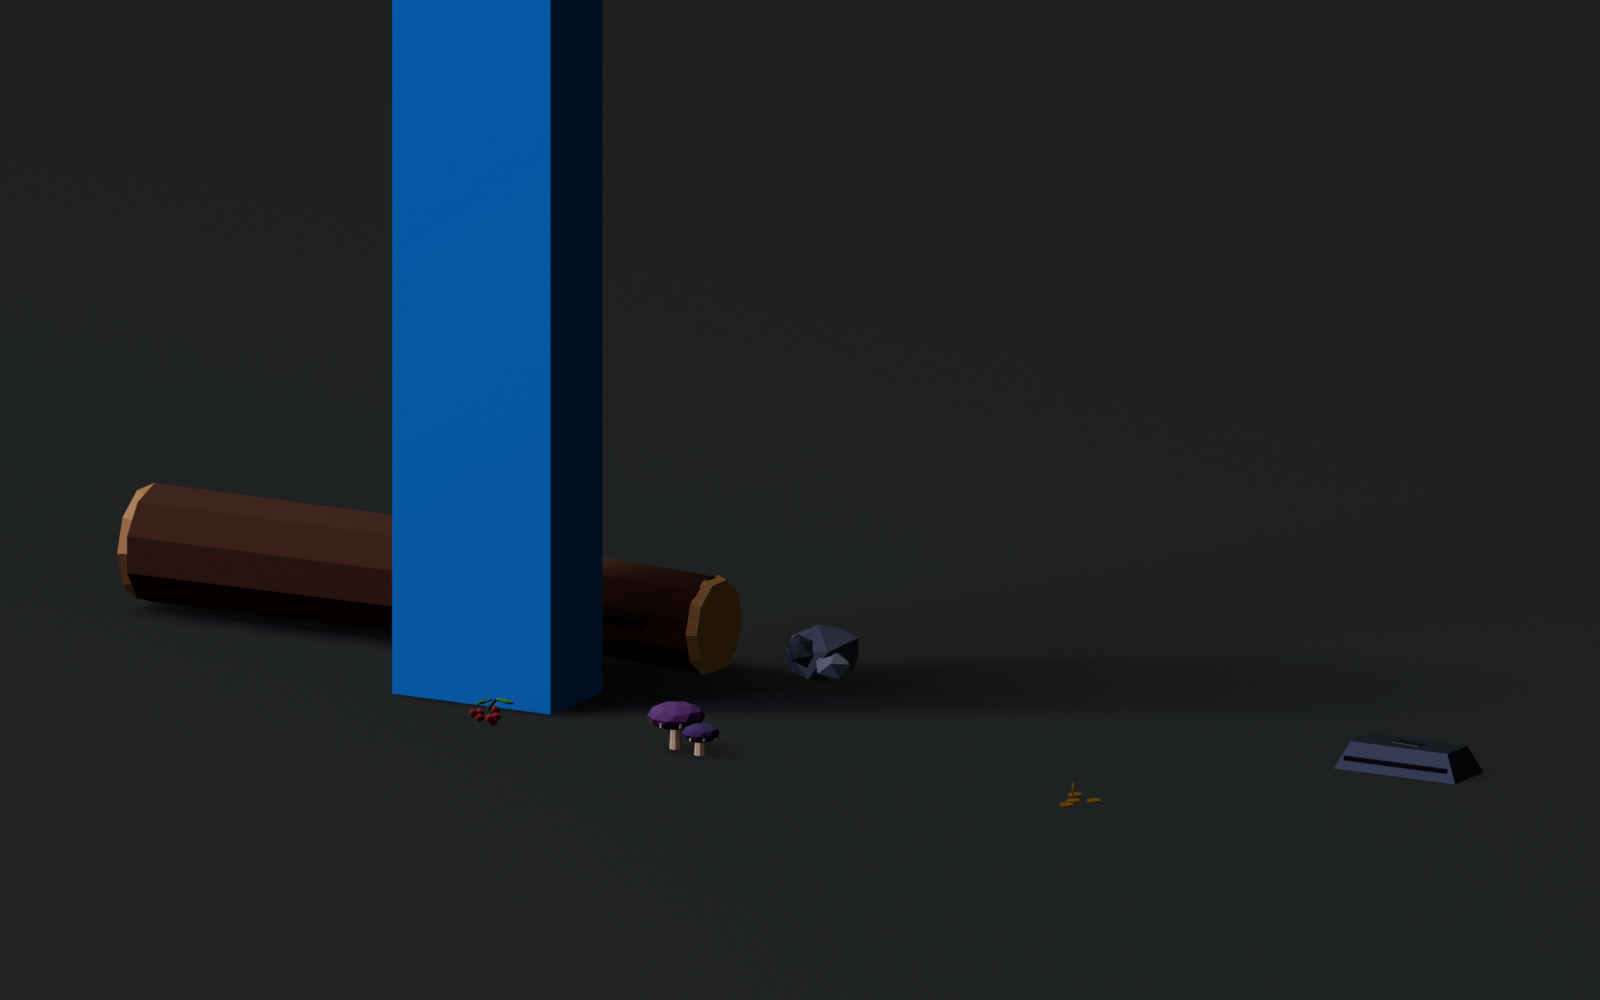
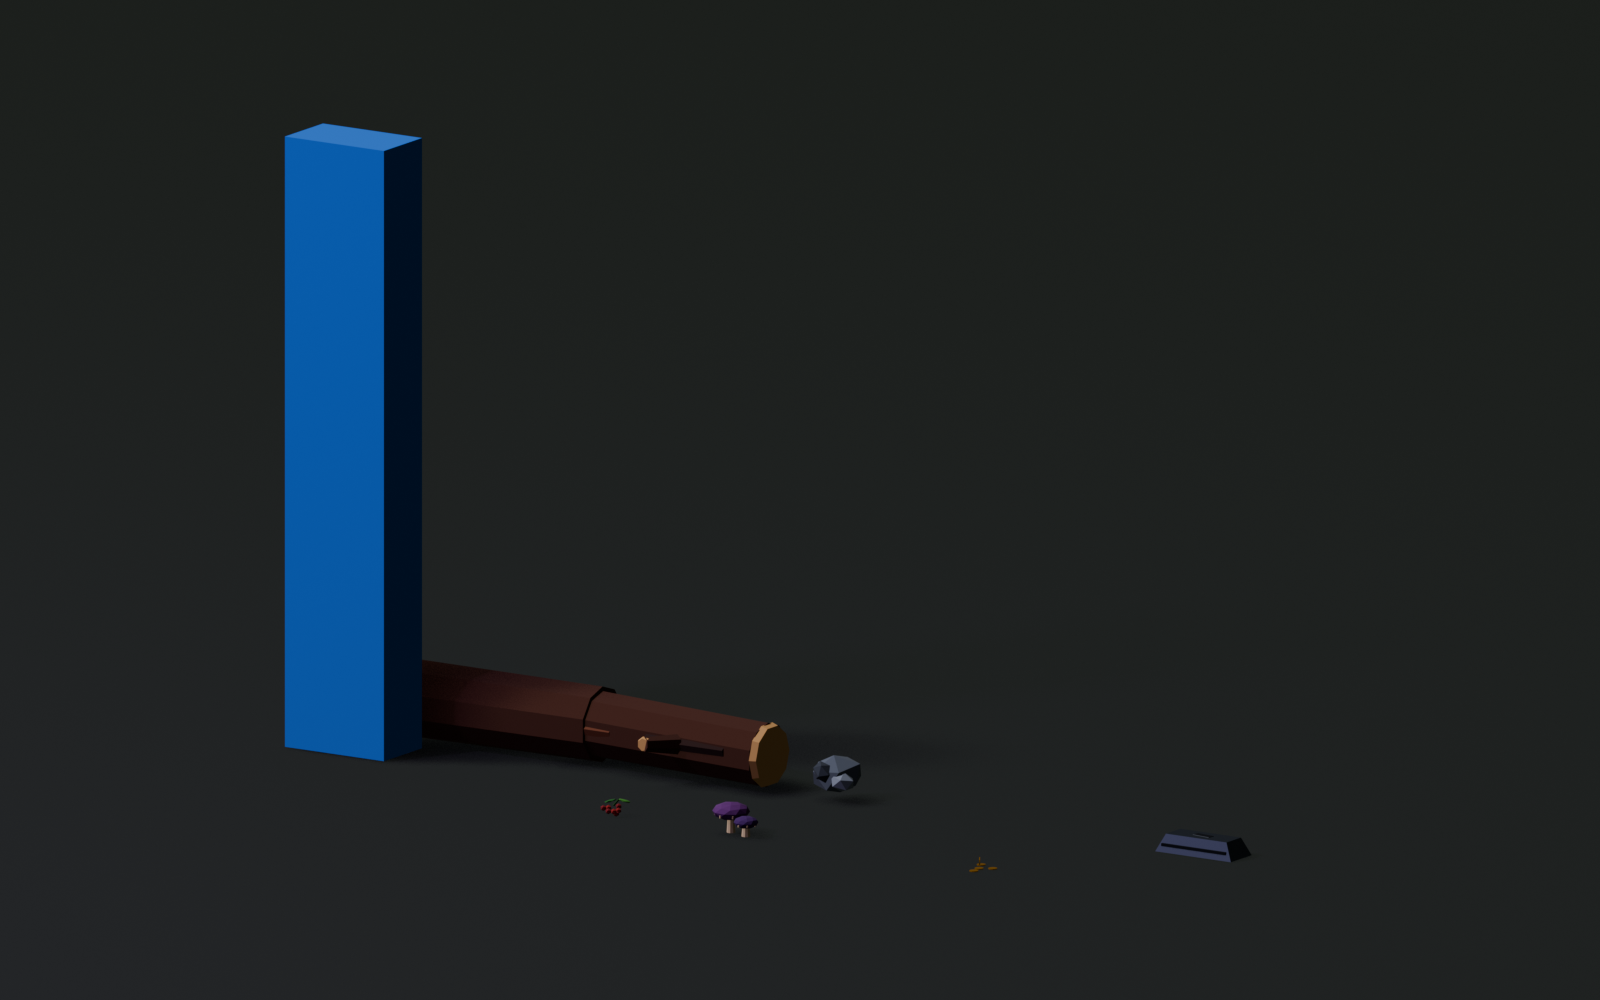
Art: scale preview frames its own 1.80 m reference (2.1j)
The shot cropped the top of the yardstick it exists to measure against, which is
how this kit passed inspection at ten times life size. Ortho vertical extent is
ortho_scale * res_y / res_x, so 4.6 at z=0.95 spans -0.49..2.39 and holds all of it.

diff --git a/tools/blender/build_pickup_kit.py b/tools/blender/build_pickup_kit.py
@@ -507,11 +507,17 @@ def main() -> None:
     for record in records:
         set_visible(record, record["name"] in {"pickup_log", "pickup_iron_ingot", "pickup_stone",
                                                "pickup_mushroom", "pickup_berry", "pickup_coin"})
-    ref = box("Scale_Reference_Human", (-0.95, 0.0, 0.90), (0.34, 0.20, 1.80), mat("reference_blue"))
+    # The reference stands clear of the row rather than on top of it, and the
+    # frame holds all 1.80 m of it — a scale shot that crops the yardstick is
+    # how the old kit passed inspection at ten times life size.
+    ref = box("Scale_Reference_Human", (-1.95, 0.10, 0.90), (0.34, 0.20, 1.80), mat("reference_blue"))
     move_to_collection([ref], preview_collection)
-    camera.data.ortho_scale = 3.0
-    camera.location = (1.6, -3.4, 1.4)
-    look_at(camera, (-0.3, 0.0, 0.45))
+    # Vertical extent of an ortho frame is ortho_scale * (res_y / res_x) =
+    # 4.6 * 1000/1600 = 2.88 m; centred at z=0.95 that spans -0.49..2.39, so all
+    # 1.80 m of the reference is inside the frame with headroom.
+    camera.data.ortho_scale = 4.6
+    camera.location = (2.4, -4.2, 2.1)
+    look_at(camera, (-0.35, 0.0, 0.95))
     scene.render.filepath = str(PREVIEW_DIR / "pickups_scale_preview.png")
     bpy.ops.render.render(write_still=True)
 
